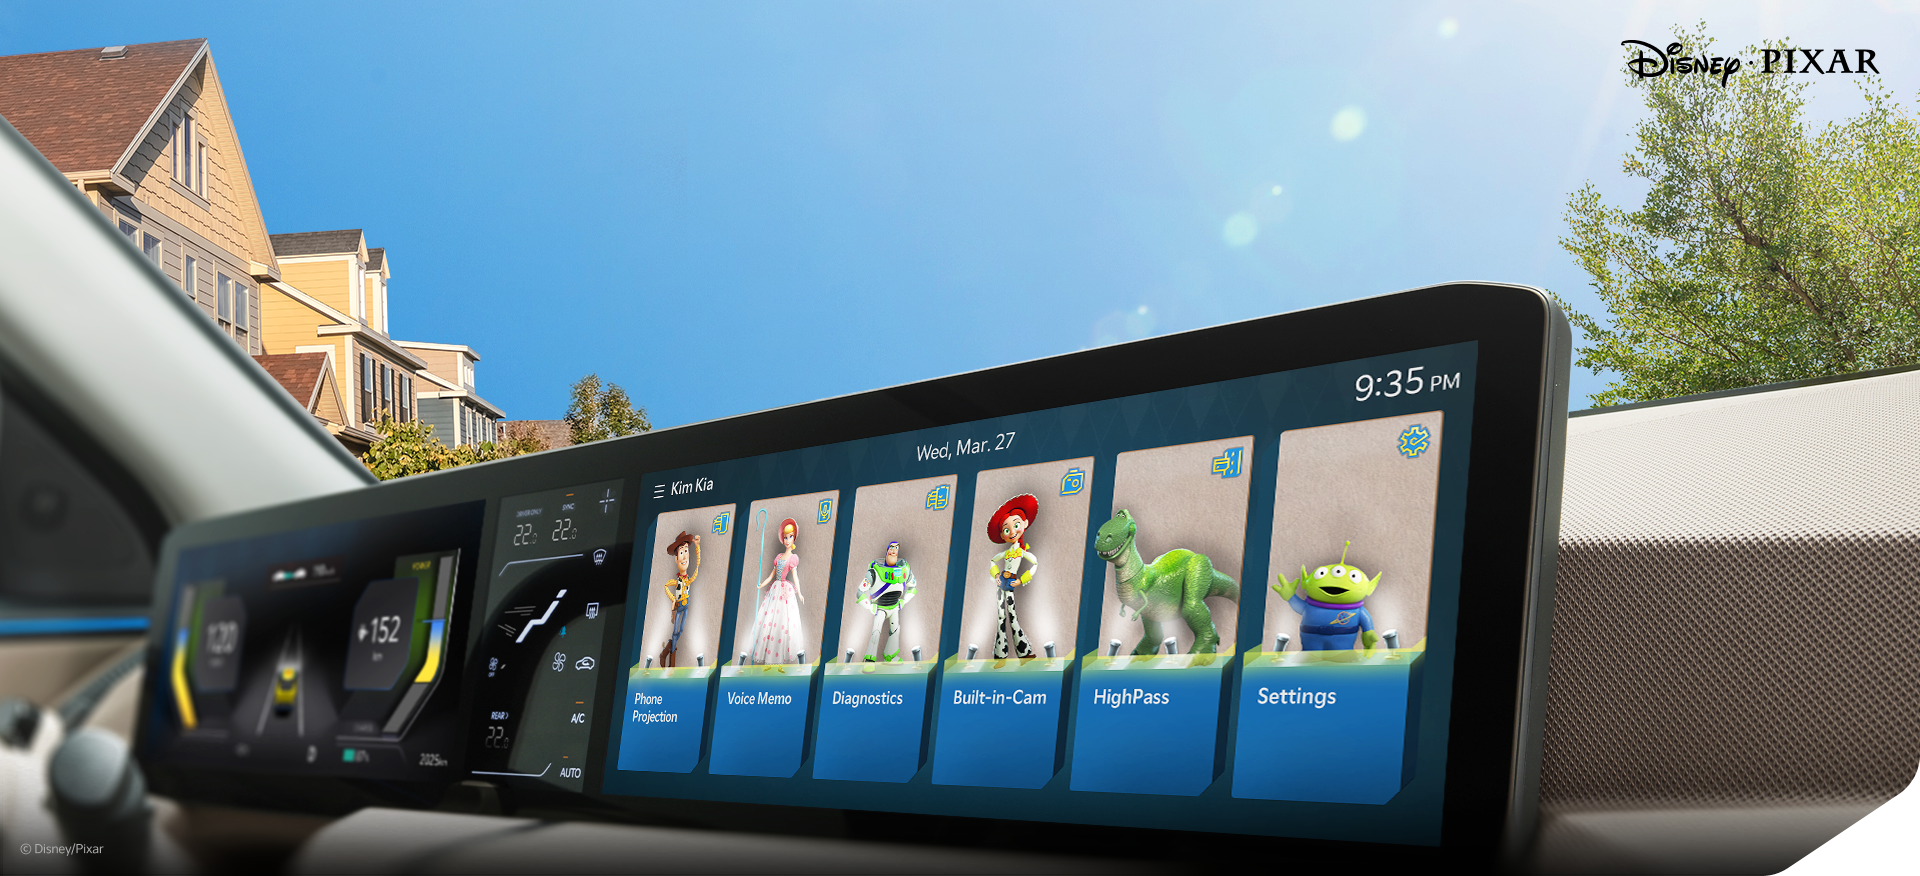
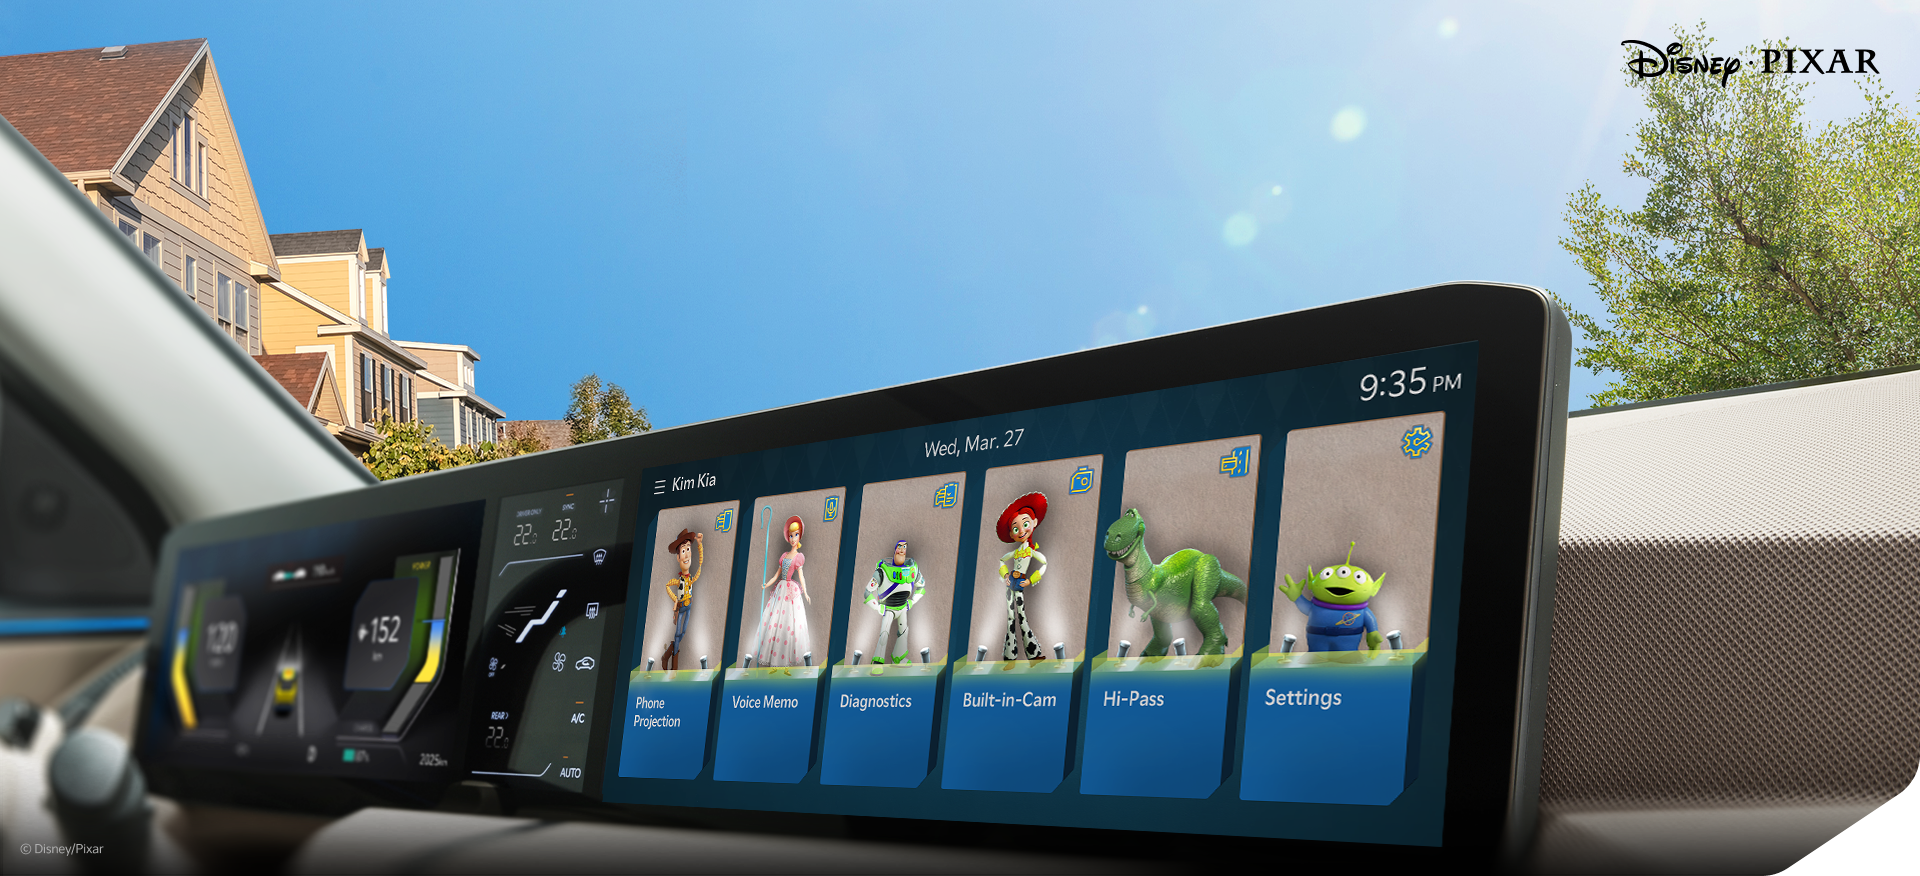
fix: [pixar] 이미지 교체 및 불필요 css 삭제

Changed region(s): [[0.3125, 0.4007, 0.7812, 0.9555]]

diff --git a/product/pdp_display_theme_pixar.html b/product/pdp_display_theme_pixar.html
@@ -510,7 +510,7 @@
     <main
       data-current-theme="01"
       data-product="pixar"
-      data-theme-list='["01", "02", "03"]'
+      data-theme-list='["01", "02"]'
     >
       <!-- KV (Key Visual) START -->
       <section class="kv">

diff --git a/assets/css/pdp/pixar/index.css b/assets/css/pdp/pixar/index.css
@@ -1,7 +1,6 @@
 @import url("key_visual-pixar.css");
 @import url("themes-pixar.css");
 @import url("theme-selectors-pixar.css");
-@import url("screenshots-pixar.css");
 @import url("playful-pixar.css");
 @import url("reasons-n-pixar.css");
 

diff --git a/assets/scss/pdp/pixar/themes-pixar.scss b/assets/scss/pdp/pixar/themes-pixar.scss
@@ -14,10 +14,6 @@
     display: none;
   }
 
-  //.themes-stage-inner {
-  //  width: 100%;
-  //}
-
   .themes-cards-grid {
     display: grid;
     grid-template-columns: repeat(2, minmax(0, 1fr)) 0.7fr;
